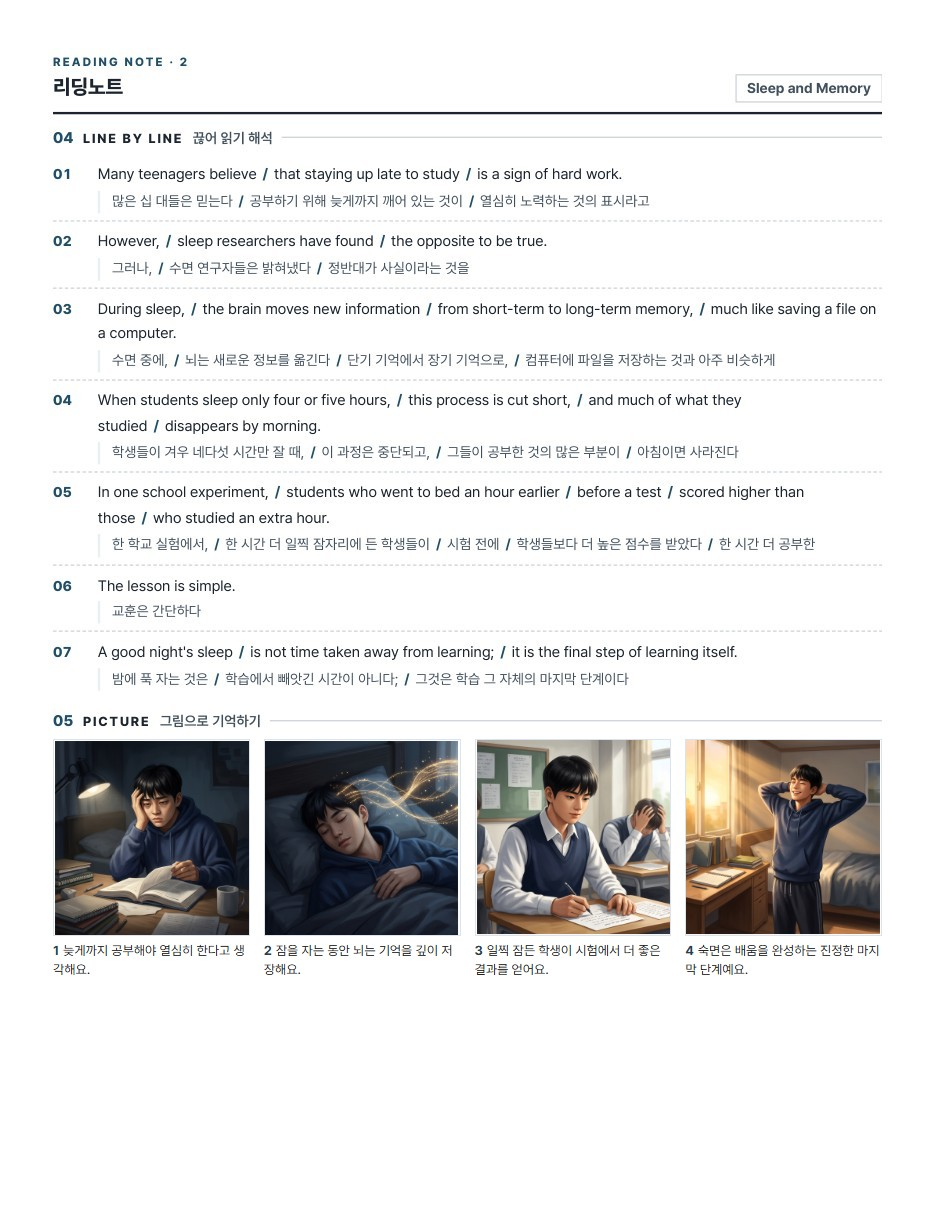
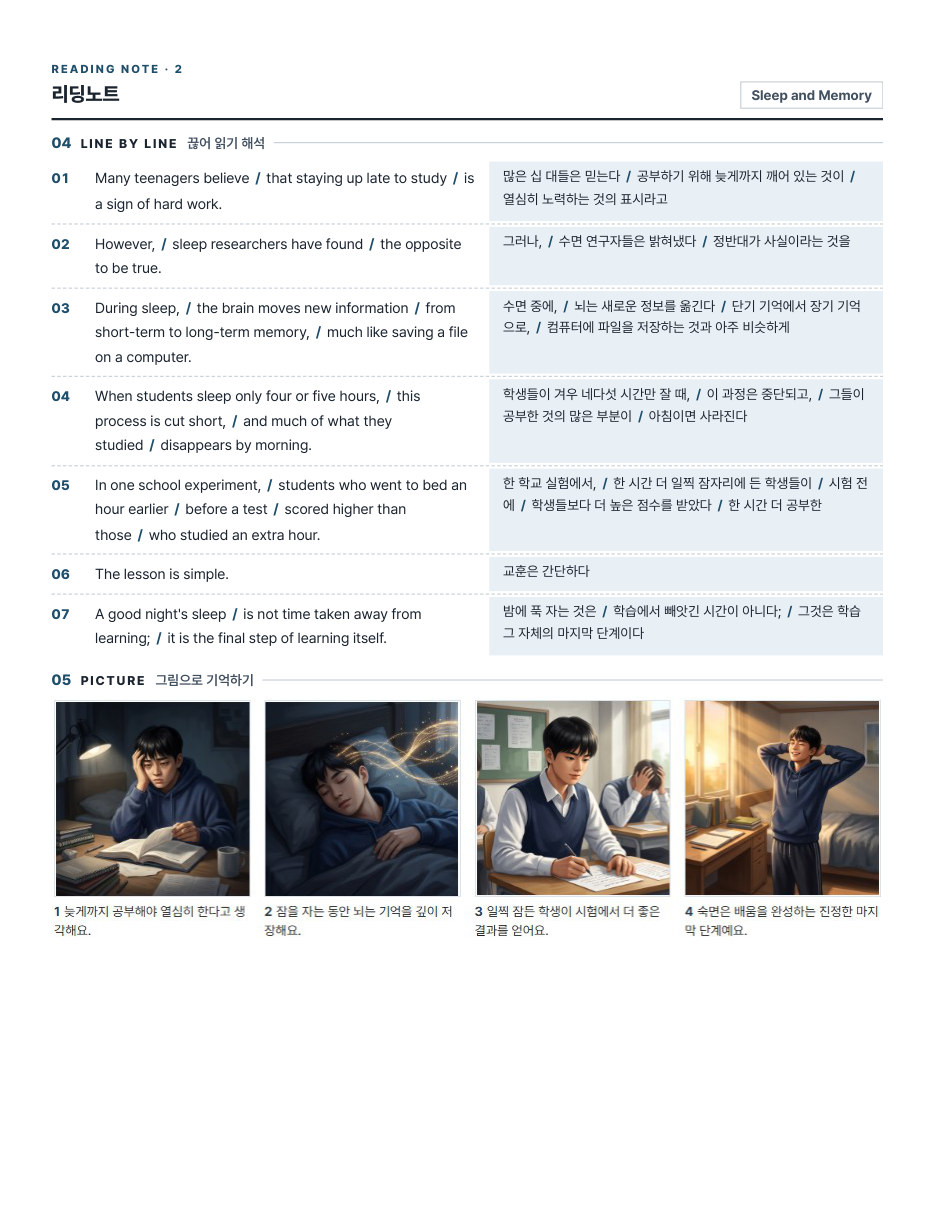
리딩노트 끊어 읽기를 왼쪽 영어·오른쪽 우리말 2단으로 바꾸고, 우리말 칸에 꾸미기에서 고른 색을 옅게 깐다(사용자). 처음엔 참고 교재와 달라 보이게 영어 줄 아래 우리말 줄로 두었는데 사용자가 좌우 배열로 정했다. 색은 꾸미기 테마 색이 만드는 --accent-soft를 그대로 쓰고 폰 화면만 위아래로 쌓는다. 인쇄 규칙과 .dc-measure를 함께 고쳤고, 만드는 법 안내·소개 쪽·예시 그림 2·3·업데이트 소식도 맞췄다. 222단어 샘플이 2쪽 안에 드는 것, 고른 색이 화면과 크롬 PDF 인쇄에 나오는 것을 확인했다

Changed region(s): [[0.031, 0.0306, 0.9615, 0.8256]]

diff --git a/public/decode.js b/public/decode.js
@@ -1,7 +1,7 @@
 /* ══════ 리딩노트 (2026-11-02 사용자) ══════
    지문 하나 → A4 두 쪽짜리 정리 자료.
      1쪽: 본문과 해석(원문 아래 전체 해석) / 핵심 정리(제목·주제·글의 목적·흐름 세 줄) / 주요 어휘
-     2쪽: 끊어 읽기 해석 — 문장마다 영어 줄 아래 우리말 줄(영어 조각 / 우리말 조각을 같은 자리에서 끊는다)
+     2쪽: 끊어 읽기 해석 — 문장마다 왼쪽 영어, 오른쪽 우리말 2단(영어 조각 / 우리말 조각을 같은 자리에서 끊는다)
    서버는 /api/decode(call_gemini_decode, Flash, 지문 1개당 PRICE_DECODE_KRW)이고 글자만 돌려준다 — 여기서 esc()로 넣는다.
    app.js 뒤에 로드되며 app.js의 전역($, esc, postGenerate, passageMgr, TAB_SAVE …)을 쓴다(grammar.js와 같은 방식).
    공용 지문칸을 그대로 쓴다. 결과 칸은 #dcResult 하나. */
@@ -40,9 +40,9 @@ function dcDropBlobs(keep) {
 const dcEd = (f, text, tag = "span", cls = "") =>
   `<${tag} class="dc-ed${cls ? " " + cls : ""}" data-f="${f}">${esc(text || "")}</${tag}>`;
 
-/* 모양은 참고한 교재(분홍 둥근 틀 · 알약 소제목 · 원문/해석 좌우 · 한 줄 해석 좌우 칸)와 일부러 다르게 짰다(2026-11-03 사용자):
+/* 모양은 참고한 교재(분홍 둥근 틀 · 알약 소제목 · 원문/해석 좌우)와 일부러 다르게 짰다(2026-11-03 사용자):
    머리 = 영문 머리글 + 제목 / 소제목 = 번호 + 영문 머리글 + 가는 줄 / 원문 아래 해석 / 핵심 정리 = 제목 띠 + 주제·목적 두 칸 + 흐름 세 칸 /
-   어휘 = 외웠는지 표시하는 네모가 붙은 세 줄 목록 / 끊어 읽기 = 문장마다 영어 줄 아래 우리말 줄 */
+   어휘 = 외웠는지 표시하는 네모가 붙은 세 줄 목록 / 끊어 읽기 = 문장마다 왼쪽 영어, 오른쪽 우리말 2단(2026-11-05 사용자), 우리말 칸 바탕은 꾸미기 색 */
 function dcHeadHtml(name, page) {
   return `<header class="dc-head"><div class="dc-head-l"><span class="dc-kicker">READING NOTE${page > 1 ? " · " + page : ""}</span>` +
     `<span class="dc-head-title">${esc(dcState.title || DECODE_NAME)}</span></div>` +
@@ -576,7 +576,7 @@ if (typeof HOWTO !== "undefined") {
         "그림은 지문마다 위의 <b>🖼 4컷 그림 넣기 / 🔄 그림 다시 그리기 / 그림 빼기</b>로 더하거나 바꿉니다.",
       "<b>🖨 인쇄 / PDF 변환</b>으로 뽑거나, <b>💾 사이트 저장</b>으로 남겨 둡니다.",
     ],
-    tip: "1쪽: 본문과 해석 · 핵심 정리(제목·주제·글의 목적·흐름 세 줄) · 주요 어휘(외웠는지 표시하는 네모) / 2쪽: 문장마다 '/'로 끊은 영어 줄 아래 우리말 줄(4컷 그림은 2쪽 아래). 지문이 길어 넘치면 글씨를 조금 줄이거나 어휘·그림 자리를 옮겨 <b>알아서 두 쪽에 맞춥니다</b>. 4컷 그림 값은 지문마다 1세트입니다. 🎨 꾸미기로 색·글자 크기·글꼴을 바꿀 수 있습니다(요금 없음). 다른 지문으로 넘어갈 때는 지문 칸의 <b>[🆕 새로 만들기]</b>를 누르세요.",
+    tip: "1쪽: 본문과 해석 · 핵심 정리(제목·주제·글의 목적·흐름 세 줄) · 주요 어휘(외웠는지 표시하는 네모) / 2쪽: 문장마다 왼쪽에 '/'로 끊은 영어, 오른쪽에 우리말(4컷 그림은 2쪽 아래). 지문이 길어 넘치면 글씨를 조금 줄이거나 어휘·그림 자리를 옮겨 <b>알아서 두 쪽에 맞춥니다</b>. 4컷 그림 값은 지문마다 1세트입니다. 🎨 꾸미기로 색·글자 크기·글꼴을 바꿀 수 있고, 고른 색은 끊어 읽기 우리말 칸의 바탕색에도 들어갑니다(요금 없음). 다른 지문으로 넘어갈 때는 지문 칸의 <b>[🆕 새로 만들기]</b>를 누르세요.",
   };
 }
 

diff --git a/public/style.css b/public/style.css
@@ -3014,14 +3014,16 @@ input.st-in{width:100%; box-sizing:border-box;}
 .dc-w-word{font-weight:700;}
 .dc-w-pos{font-size:10.5px; color:var(--accent); font-weight:700;}
 .dc-w-mean{flex-basis:100%; color:var(--ink-soft);}
-/* 끊어 읽기 — 문장마다 영어 줄 아래 우리말 줄 */
+/* 끊어 읽기 — 문장마다 왼쪽 영어, 오른쪽 우리말(2단) */
 .dc-lbl{list-style:none; margin:0; padding:0;}
-.dc-s{display:grid; grid-template-columns:30px 1fr; gap:8px; padding:9px 0; border-bottom:1px dashed var(--line);
+.dc-s{display:grid; grid-template-columns:30px 1fr; gap:8px; padding:4px 0; border-bottom:1px dashed var(--line);
   break-inside:avoid; page-break-inside:avoid;}
 .dc-s:last-child{border-bottom:none;}
-.dc-s-no{font-size:12px; font-weight:800; color:var(--accent); padding-top:2px; font-variant-numeric:tabular-nums;}
-.dc-s-en{line-height:1.7; font-size:14.5px;}
-.dc-s-ko{line-height:1.6; font-size:13px; color:var(--ink-soft); margin-top:3px; padding-left:10px; border-left:2px solid var(--accent-soft);}
+.dc-s-no{font-size:12px; font-weight:800; color:var(--accent); padding-top:7px; font-variant-numeric:tabular-nums;}
+.dc-s-body{display:grid; grid-template-columns:1fr 1fr; min-width:0;}
+.dc-s-en{line-height:1.7; font-size:14.5px; min-width:0; padding:5px 12px 5px 0;}
+/* 우리말 칸 바탕은 꾸미기의 테마 색을 옅게 푼 --accent-soft — 색을 고르면 함께 바뀐다 */
+.dc-s-ko{line-height:1.6; font-size:13px; color:var(--ink); min-width:0; padding:5px 12px; background:var(--accent-soft);}
 .dc-sl{color:var(--accent); font-weight:700; margin:0 5px;}
 .dc-editing .dc-ed{outline:1px dashed var(--accent); outline-offset:1px; border-radius:2px; cursor:text;}
 .dc-editing .dc-ed:focus{background:var(--hl); outline-style:solid;}
@@ -3030,6 +3032,10 @@ input.st-in{width:100%; box-sizing:border-box;}
   .dc-pair,.dc-flow{grid-template-columns:1fr;}
   .dc-step,.dc-step:first-child{clip-path:none; padding-left:10px;}
   .dc-words{grid-template-columns:1fr 1fr;}
+  /* 폰 화면에서는 두 칸이 너무 좁아 위아래로 쌓는다 — 인쇄는 그대로 2단 */
+  .dc-s-body{grid-template-columns:1fr;}
+  .dc-s-en{padding-right:0;}
+  .dc-s-ko{padding-left:10px;}
 }
 /* 인쇄 크기 — 1쪽(본문·해석 + 핵심 정리 + 어휘)이 A4 한 장에 들도록 화면보다 좁힌다.
    같은 규칙을 두 번 적는다: @media print(실제 인쇄)와 .dc-measure(decode.js dcFit이 화면에서 인쇄 폭으로 쪽 높이를 잴 때).
@@ -3045,9 +3051,10 @@ input.st-in{width:100%; box-sizing:border-box;}
 .dc-measure .dc-card,.dc-measure .dc-flow,.dc-measure .dc-words{font-size:8.8pt;}
 .dc-measure .dc-tc-en{font-size:10.5pt;}
 .dc-measure .dc-w{padding:3px 0;}
-.dc-measure .dc-s{padding:6px 0;}
-.dc-measure .dc-s-en{font-size:9.5pt;}
-.dc-measure .dc-s-ko{font-size:9pt;}
+.dc-measure .dc-s{padding:2px 0;}
+.dc-measure .dc-s-no{padding-top:6px;}
+.dc-measure .dc-s-en{font-size:9.5pt; padding-top:4px; padding-bottom:4px;}
+.dc-measure .dc-s-ko{font-size:9pt; padding-top:4px; padding-bottom:4px;}
 .dc-measure .dc-fitnote{display:none;}
 /* 그 지문만 글씨를 줄인다(dcFit이 정한다) — 쪽 전체를 zoom으로 줄여 폭은 그대로 쓴다 */
 .dc-measure .dc-sheet[data-fit="94"] .dc-page{zoom:.94;}
@@ -3066,9 +3073,10 @@ input.st-in{width:100%; box-sizing:border-box;}
   .dc-card,.dc-flow,.dc-words{font-size:8.8pt;}
   .dc-tc-en{font-size:10.5pt;}
   .dc-w{padding:3px 0;}
-  .dc-s{padding:6px 0;}
-  .dc-s-en{font-size:9.5pt;}
-  .dc-s-ko{font-size:9pt;}
+  .dc-s{padding:2px 0;}
+  .dc-s-no{padding-top:6px;}
+  .dc-s-en{font-size:9.5pt; padding-top:4px; padding-bottom:4px;}
+  .dc-s-ko{font-size:9pt; padding-top:4px; padding-bottom:4px;}
   .dc-fitnote{display:none !important;}
   .dc-sheet[data-fit="94"] .dc-page{zoom:.94;}
   .dc-sheet[data-fit="88"] .dc-page{zoom:.88;}

diff --git a/public/decode.html b/public/decode.html
@@ -64,7 +64,7 @@
     </figure>
     <figure class="shot">
       <img src="/howto-decode-2.jpg" width="935" height="1210" loading="lazy"
-           alt="영어 지문 리딩노트 2쪽 — 문장마다 '/'로 끊은 영어 줄 아래 같은 자리에서 끊은 우리말 줄, 아래에 지문 흐름을 그린 웹툰 4컷">
+           alt="영어 지문 리딩노트 2쪽 — 문장마다 왼쪽에 '/'로 끊은 영어, 오른쪽에 같은 자리에서 끊은 우리말, 아래에 지문 흐름을 그린 웹툰 4컷">
       <figcaption>2쪽 — 끊어 읽기 해석 · 4컷 그림(웹툰)</figcaption>
     </figure>
   </div>
@@ -84,7 +84,7 @@
     <li><b>본문과 해석</b>넣은 지문을 그대로 싣고, 바로 아래에 전체 해석을 붙입니다.</li>
     <li><b>핵심 정리</b>영어·우리말 제목, 주제, 글의 목적, 글의 흐름을 세 줄로 정리합니다. 주제·제목·요지 문제를 대비하기 좋습니다.</li>
     <li><b>주요 어휘</b>지문에서 꼭 알아야 할 단어와 표현을 <b>지문 속 뜻 그대로</b> 모으고, 외웠으면 표시하는 네모를 달았습니다.</li>
-    <li><b>끊어 읽기 해석</b>문장마다 영어 줄 아래 우리말 줄을 두고, 두 줄을 같은 자리에서 '/'로 끊습니다. 직독직해 연습에 그대로 쓸 수 있습니다.</li>
+    <li><b>끊어 읽기 해석</b>문장마다 왼쪽에 영어, 오른쪽에 우리말을 두고, 둘을 같은 자리에서 '/'로 끊습니다. 직독직해 연습에 그대로 쓸 수 있습니다.</li>
     <li><b>(선택) 4컷 그림</b>지문 흐름을 네 장면으로 그린 그림을 웹툰·일러스트 중에서 골라 넣습니다. 일러스트는 글자 없이 상황만 그리고, 웹툰은 컷마다 지문 내용을 담은 말풍선(한국어·영어 중 선택)이 들어갑니다. 컷마다 우리말 설명 한 줄이 붙어 직접 고칠 수 있습니다.</li>
   </ul>
 </section>

diff --git a/server.py b/server.py
@@ -15014,6 +15014,14 @@ CHANGELOG = [
             "[💾 먼저 저장하기]를 누르면 저장한 뒤 바로 인쇄로 이어집니다.",
         ],
     },
+    {
+        "version": 120,
+        "date": "2026-11-05",
+        "items": [
+            "📘 리딩노트의 끊어 읽기 해석이 왼쪽 영어, 오른쪽 우리말의 2단으로 바뀌었습니다. "
+            "우리말 칸에는 🎨 꾸미기에서 고른 색이 옅게 깔리고, 이미 저장해 둔 리딩노트도 불러오면 새 모양으로 보입니다.",
+        ],
+    },
 ]
 # 가장 새 번호 — 목록은 오래된 것부터 적혀 있다. 예전에는 CHANGELOG[0]을 최신으로 읽어
 # [확인했습니다]가 가장 오래된 번호(8)를 적는 바람에 소식이 7일 동안 거듭 떴다(2026-10-11).

diff --git a/CLAUDE.md b/CLAUDE.md
@@ -198,7 +198,7 @@ order=순서 배열·자동 / wbwrite=영작 연습·다르면 확인 대기 / p
 | PDF에서 지문 꺼내기 | `read_pdf_pages`(글자층+좌표 읽기), `_pdf_columns`(단 나누기 — 왼쪽 조각에 경계 안쪽에서 끝나는 줄이 3개 이상 있어야 단으로 본다. 모의고사 오른쪽 단의 문항 머리글이 본문보다 왼쪽으로 튀어나와 머리글만 한 단으로 갈리던 버그로 2026-10 고1·2·3 학력평가에서 번호가 하나씩 밀리고 지문이 빠졌다 — 23번 본문에 24번이 붙고 진짜 24번이 사라지거나 도표+인물 소개가 한 지문으로 붙었다, 2026-10-23), `split_pdf_passages`(문항형/문단형 판정), `_pdf_clean_passage`(번호·보기·정답교정 정리), `_pdf_unspace_letters`(양쪽 정렬로 글자마다 빈칸이 든 줄 'p r o c e s s .  B a s e d'을 되붙인다 — 낱말 사이가 빈칸 둘 이상일 때만), `_pdf_drop_running_heads`(쪽마다 같은 머리말을 지운다 — 책처럼 홀짝 쪽 머리말이 다르면 홀수·짝수 쪽을 따로 세되 한글이나 숫자뿐인 줄만, 2026-10-21). 여기까지는 Gemini를 부르지 않습니다 — 규칙이 실패했을 때만 `call_gemini_pdf_split`이 '경계 줄 번호'만 물어봅니다 |
 | 모의고사 문제지 → 원래 지문(2026-10-20) | 학생용 문제지는 빈칸·순서·삽입이 풀리지 않은 채라 위 규칙 길로는 그 지문이 빠진다(고1 10월 모의고사 28지문 중 13개만 나왔다). `/api/mockrestore` → `call_gemini_mock_restore`가 PDF를 **통째로**(inlineData) Pro에 보내 `MOCK_RESTORE_RANGES`(18~24·25~30·31~35·36~40·41~45)로 나눠 **동시에** 풀게 하고, 되살린 지문(`MOCK_RESTORE_SCHEMA` — no·type·text·answer·change)을 번호 순으로 돌려준다. 정답표 없이 AI가 푼다(사용자 결정) — 화면이 고른 답을 모두 보여 선생님이 맞춰 보게 한다. 글자를 서버가 뽑아 정답만 끼우는 길은 2단 시험지의 줄 순서가 섞여(29번 첫 줄이 30번 발문 사이에 낀다) 버렸다. 옮겨 적기가 대부분이라 temperature 0.15(RECITATION — `call_gemini_exam_ocr`과 같다). 값은 되살린 지문 1개당 `PRICE_MOCK_RESTORE_KRW`(30P — 2026-10-20 사용자 결정: 처음 꺼내기는 무료이고 이것은 다른 유료 기능으로 이어지는 입구라 원가(지문당 약 18원)만 넘기면 된다), 잔액은 쪽 수×4(4~28지문)로 미리 본다. 실측: 8쪽 문제지 25지문 50초, 입력 5.2천×5·출력+생각 약 2.1만 토큰(원가 약 430원). 화면은 따로 단추 없이 **[📄 PDF에서 가져오기](`runPdfImport`)가 묻는다** — 29번을 넘는 번호가 보이면 풀어야 할 문항(`MOCK_SOLVE_NOS` 29~39·41~45 + 규칙이 못 꺼낸 번호)을 모아 선택 창(`askMockFill` — [🧩 AI로 자동 채우기](지문당 값) / [원문 그대로 두기](무료))을 띄우고(2026-10-20 사용자 — 무료로 열면 원가가 커서), AI면 `mockRestoreInto`가 그 번호만 `nos`로 보내 문항 번호를 이름으로 달아 `appendJobs`한다. **모의고사면 규칙으로 바로 꺼낸 지문도 번호를 이름으로 달고, AI로 되살린 지문과 합쳐 `mockJobsInOrder`로 문항 번호 순서대로 넣는다**(2026-10-23 사용자 — 규칙 쪽만 이름이 비어 '지문 1'로 나오고 순서도 18~22 → 40 → 23…로 섞였다). [원문 그대로 두기]도 같은 순서·이름이고, 빼 둔 지문(25~28)은 넣을 때 이름만 달고 맨 뒤에 붙는다. 교과서 PDF는 여전히 이름을 비운다(`fillText`). 서버는 `parse_mock_nos`·`_mock_nos_of`로 그 번호 밖의 지문을 버려, 규칙으로 무료로 꺼낸 지문에 값을 또 받지 않는다. **정답표(선택, 2026-10-21 사용자 — AI가 푼 답은 틀릴 수 있다)**: 선택 창에 정답을 글로 붙여 넣거나(`keyText`) PDF·사진(`keyFile`, base64 4MB `MOCK_KEY_FILE_MAX` — 화면에도 같은 이름)을 올리면 AI가 풀지 않고 그 답대로 되살린다. 글은 `parse_mock_answer_key`가 번호 → ①~⑤로 읽어(짝 꼴 '31 ②'·'31. 2', 가로 표 두 줄, 평가원 '번호 정답 배점' 표 — 줄을 넘어 짝짓지 않는다) 범위마다 그 번호만 보내고, 못 읽은 글은 그대로, 파일은 두 번째 파일로 보낸다. 번호를 읽은 정답표면 AI의 답에 그 번호(①~⑤)가 들어 있는지 견줘 `keyMismatch`로, 정답표에 없어 AI가 푼 지문은 `keyed:false`로 돌려 화면이 빨간 줄로 짚는다. 값은 같다. 실측(2025 9월 고3 모평): 정답표 PDF로 31·32·36·38 모두 정답, 31번을 일부러 틀리게 준 글 정답표도 그대로 따랐다 |
 | 사진 속 '문제' → 원래 지문(2026-10-21 사용자) | 순서·삽입·무관한 문장·빈칸 문제를 캡처해 넣으면 예전엔 (A)(B)(C)가 인쇄된 차례로 붙거나 주어진 문장이 맨 앞에 붙은 채 들어갔다. `/api/ocr`(Flash)이 `problem`(종류)·`qno`를 함께 받고, 문제면 `lines` 안에 `[주어진]`·`(A)`·`( ① )`·`①`·`_____`·`[보기]` 표시를 남기게 해 서버 `problem_from_lines`가 짜임(given·parts·body·choices)과 표시를 지운 예전 글을 함께 만든다(`normalize_ocr_problem`이 되살릴 수 있는 짜임만 남긴다 — 글을 두 번 옮기게 했더니 Flash가 조각을 비우고 출력이 두 배라 잘림·재현 차단이 늘었다). 화면 `runOcr`은 꺼낸 그대로 칸에 넣은 뒤(`fillText`가 채운 칸을 돌려준다) `askProblemFill` 창을 띄운다 — ① 답 번호 직접 ② 정답표(붙여 넣기는 화면 `parseKeyText`, 안 되면·파일은 `/api/answerkey` → `read_answer_key`: 글·글자 PDF는 규칙, 사진·스캔은 Flash, 0원) ③ `/api/passagesolve`(`solve_passage_problems` — 문제마다 따로 Pro로 풀고 Flash로 한 번 더 풀어 다르면 '답이 갈림' 표시, 값 `PRICE_PASSAGE_SOLVE_KRW` 문제당 30P, 답을 받아 낸 수만큼). 고른 답대로 `assembleProblem`이 조각을 잇는다 — 글을 다시 옮겨 적지 않는다. 칸에는 먼저 `problemAsShown`(캡처본 그대로 — (A)(B)(C)·( ① )·①~⑤·빈칸·보기를 살린 글)을 넣으므로 창의 [📷 캡처본 그대로 두기]와 답을 안 정한 문제는 그 글로 남는다(2026-10-21 사용자 — 예전 '꺼낸 그대로'는 표시만 지우고 인쇄된 차례로 붙여 원래 지문도 문제도 아닌 글이었다). 실측: 모음집 문항 사진 34장 중 31장이 짜임까지 읽혔고(3장은 재현 차단 → 조각 읽기로 넘어가 짜임 없이 예전처럼 들어간다, 온도를 올려도 안 풀렸다), 공식 정답으로 되살린 31지문이 검증된 지문과 낱말까지 같았다. AI 풀이 Pro 30~31/31, Flash 30/31 |
-| 리딩노트(2026-11-02 사용자 — 시중 구문독해 교재 같은 복습 자료, 탭 이름 **리딩노트**는 사용자가 골랐다) | 지문 하나 → A4 두 쪽: 1쪽 본문과 해석(원문 아래 전체 해석) / 핵심 정리(영어·우리말 제목 띠, 주제·글의 목적 두 칸, 흐름 세 줄 화살표 칸) / 주요 어휘(12~16개, 세 줄, 외웠는지 표시하는 네모), 2쪽 끊어 읽기 해석(문장마다 영어 줄 아래 우리말 줄 — 같은 자리에서 '/'로). **모양은 참고 교재와 일부러 다르게 짰다**(2026-11-03 사용자: 베낀 티가 나면 안 된다 — 분홍 둥근 틀·알약 소제목·원문/해석 좌우·한 줄 해석 좌우 칸을 쓰지 않는다. 소제목은 `01 PASSAGE` 같은 번호 + 영문 머리글 + 가는 줄). 되돌리지 말 것. 서버 `/api/decode` → `call_gemini_decode`(Flash 고정, `DECODE_SCHEMA`/`DECODE_SYSTEM_PROMPT`, 지시문이 짧아 캐시 안 씀) → `_finish_decode`(태그를 걷어 **글자만** 돌려준다 — 화면이 `esc()`로 넣는다). 문장이 모자라거나 영어가 60% 아래면(`decode_english_incomplete`) 한 번 더 묻는다(값은 한 번). 값 `PRICE_DECODE_KRW` 지문당 150P는 **원가 실측 전 임시값**(로컬 실측 150단어 지문 1개: 입력 1.3천·출력+생각 2.9천 토큰, 약 16원, 21초 — Render 로그 `[usage] decode`로 맞출 것). 화면은 **`public/decode.js` 한 파일**(grammar.js처럼 app.js 뒤에 로드, `_asset_version` 목록에 있다), 사이드바에서 '📖 지문 분석' 묶음 바로 아래 따로 선 탭(처음엔 그 묶음의 하위 탭이었는데 사용자가 밖으로 빼라고 했다). 공용 지문칸을 그대로 쓰고 지문마다 차례로 부른다(`runGate`로 멈추기). 왼쪽 원문은 AI 조각이 아니라 **넣은 지문 그대로**다. [✏ 직접 수정]은 `.dc-ed[data-f]` 칸만 열고 `dcHarvest`가 고친 글을 data로 되돌려 저장·인쇄에 쓴다. **4컷 그림**(2026-11-03 사용자 — 그림 느낌 둘: 일러스트·웹툰을 선생님이 고른다, 서버 `DECODE_PIC_STYLES` ↔ 화면 `DC_PIC_STYLES`·`index.html` 라디오 **같은 열쇠**. 수채화·연필 스케치·흑백 만화·3D 캐릭터는 그려 보고 뺐다). **같은 4컷을 상세분석·요약분석의 '요약 이미지'에서도 고른다**(2026-11-03 사용자): 종류 칸에 `comic`(🖼 4컷 그림 + 느낌 `<prefix>ComicStyle`)을 더해 `makeSummaryImage`가 `/api/decodepic`을 부르고, `addInfographic`/`buildBriefHtml`이 `comicCutsHtml`로 네 칸을 그린다(그림 본체 `img.infographic`은 숨겨 두어 저장·불러오기 길을 그대로 쓴다). 값은 종류마다 `imgLangPrice`(4컷 `decodePic`·인포그래픽 `infographic`). 컷 설명은 저장본 `images[].caps`(서버 `clean_saved_images_meta`가 남긴다). 고르는 조합은 `enforceImgLangRule`이 정한다 — **한글요약·영어요약만 함께 고를 수 있고, 한국어＋영어와 4컷은 혼자만**(`IMG_LANG_SOLO`, 2026-11-03 사용자 — 마지막에 누른 것이 이긴다). 4컷의 그림 느낌(`<prefix>ComicStyle`)·웹툰 말풍선 말(`<prefix>ComicBubble`, 한국어 기본 — 리딩노트는 `dcPicBubble`)은 체크박스 모양이지만 하나만 켜진다. **지문마다 따로 고르기**(`<prefix>PerOn`, 2026-11-03 사용자 — 중학교 소책자에서 대화문은 웹툰, 본문은 인포그래픽·일러스트): 그림 한 장의 방식을 사양 글자(`"mix"`·`"ko"`·`"en"`·`"comic:illust"`·`"comic:webtoon:ko|en"`)로 적고, 켜면 지문마다 고른 사양 하나(또는 그림 없음)가 위의 체크를 대신한다(`imgSpecsFor` — '위에서 고른 대로'인 지문만 위 체크, 대화문은 `isDialogueText`로 처음에 웹툰을 골라 둔다). 고른 값은 지문 글을 열쇠로 화면에만 둔다(`imgPerChoice`, 저장본에는 안 담긴다). 값 셈은 `imgSpecsCost`/`imgSpecsSummary`, 그리는 곳은 `makeInfographics`·`briefMakeImages`가 지문마다 사양을 `makeSummaryImage`에 넘긴다. 사양의 앞 조각(`specLang`)이 예전 종류(lang)라 화면의 `data-lang`·저장본 `images[].lang`은 그대로다. 그림마다 사양을 `data-spec`(상세분석)·`images[].spec`(요약분석, 저장본도 — 서버 `clean_saved_images_meta`가 남긴다)에 적어 둔다. **[🖼 요약 이미지만 만들기]**(상세분석 `infoMakeBtn`·요약분석 `briefInfoMakeBtn`, 2026-11-03 사용자)는 붙은 그림을 지금 고른 것에 맞춘다 — `planImgSwap`이 같으면 그대로, 다르면 빼고 새로 그리고(`confirmImgSwap`이 값을 묻는다), 그 지문의 새 그림을 다 그렸을 때만 옛 그림을 뺀다(실패하면 옛 그림이 남는다). 사양 기록이 없는 옛 4컷은 같은지 모르므로(unsure) 다시 그릴지 따로 묻는다. 상세분석에서 4컷만 있으면 `syncInfoPair`가 새 쪽 강제를 푼다: `/api/decodepic` → `call_gemini_decode_pic`(Flash가 장면·컷 설명을 정하고 `MODEL_IMAGE`가 정사각형 한 장에 2×2 네 컷 — 한 번만 그려 한 장 값, `PRICE_DECODE_PIC_KRW` 300P, 원가 약 90원). **그림 속에 한글은 넣지 않고**(웹툰만 지문 낱말을 빌린 짧은 **영어** 말풍선을 넣는다 — 일러스트는 글자 없이 상황 묘사만. 두 느낌이 비슷해 보인다는 의견으로 2026-11-03에 `DECODE_PIC_STYLES`(일러스트=반실사 디지털 페인팅, 웹툰=굵은 먹선·과장·효과선)·`DECODE_PIC_FRAMES`(칸 모양)·`DECODE_PIC_STAGING`(장면 정하는 단계의 연출, 웹툰은 `line` 대사)으로 갈랐다) 컷 설명은 화면이 그림 아래 글자로 붙인다(`data.pic.captions`, 직접 수정 가능 — 그림이 그린 한글은 오탈자가 잘 나서). 화면이 한 장을 칸마다 206%로 놓아 잘라 쓴다(컷 사이 흰 줄을 감춘다). 만들 때 체크(`dcPicChk`)하거나 지문마다 [🖼 4컷 그림 넣기/🔄 다시 그리기/그림 빼기], 목록의 `dcPicBtn`. 그림은 **늘 가로 한 줄**이다(3쪽에 2×2로 크게 넣었더니 쪽 낭비가 심하다고 사용자가 되돌렸다 — 다시 2×2로 바꾸지 말 것). `dcFit`이 글 모양 차례마다 그림 자리를 `DC_PIC_SPOTS`(2쪽 아래 → 80% → 1쪽 빈자리 → 1쪽 80% → 65%) 차례로 해 보고, 그래도 안 되면 그때만 한 줄 그대로 3쪽(`.dc-page3`)에 둔다. 소제목 번호는 `dcRenumber`가 쪽 차례대로 다시 매긴다. 그림 본체는 저장 때 `/api/saved-image`(key `p{차례}`)로 따로 올린다(`afterSave`/`afterLoad` — 요약분석과 같은 길). 그림 결과는 `_hold_bin`의 image 그릇에 든다. 🎨 꾸미기는 다른 탭과 같은 `createSheetStyle`(글자 크기 묶음 `SHEET_FS.reading` — 영어·우리말 해석·정리·어휘, CSS `.fs-e`/`.fs-k`/`.fs-v`)이고 저장본 `sheetStyle`에 담긴다. 저장 tab `"decode"`. 인쇄 CSS는 style.css 끝 '리딩노트'. **인쇄 2쪽 맞추기**(`dcFit`, 2026-11-03 — 단어 수가 아니라 해석·목적 글 길이에 따라 1쪽이 넘쳐 152단어 지문도 어휘만 다음 쪽으로 밀렸다): 화면에서 `.dc-measure`(인쇄 규칙과 **같은 값을 한 벌 더** 적어 둔 것 — 한쪽만 고치면 잰 높이와 실제 인쇄가 어긋난다)로 쪽마다 높이를 재서 `PAGE_H_MM`−3mm에 들 때까지 ① 그대로 ② 그 지문만 글씨 94%(`data-fit`, zoom) ③ 주요 어휘를 2쪽 위로 ④ ③+94% ⑤ ③+88%를 차례로 해 보고, 바꾼 것은 지문 위 `.dc-fitnote`(화면 전용)로 알린다. 꾸미기·직접 수정·탭 열기 때 다시 잰다. 지문 6개(132~224단어)가 모두 2쪽인 것을 헤드리스 크롬 PDF로 확인했다(학원 마크 띠가 붙은 실제 인쇄는 아직 못 봤다). 색은 사이트 색(`--accent`) — 참고 교재의 분홍 둥근 틀을 따르지 않는다(문법 마법사처럼 남의 자료 티가 나지 않게). 결과물 예시는 `howto-decode-1·2.jpg`(다른 탭과 같은 Desirable Difficulty 지문으로 실제로 만든 리딩노트 + 4컷 웹툰을 헤드리스 크롬으로 인쇄한 쪽 — 모양을 바꾸면 다시 찍을 것, decode.js의 `HOWTO_SAMPLE.decode`). 로그인 뒤 기능 카드(`START_TOUR`)·로그인 전 첫 화면 카드·검색용 소개 쪽 `decode.html`(2026-11-03)이 있다 |
+| 리딩노트(2026-11-02 사용자 — 시중 구문독해 교재 같은 복습 자료, 탭 이름 **리딩노트**는 사용자가 골랐다) | 지문 하나 → A4 두 쪽: 1쪽 본문과 해석(원문 아래 전체 해석) / 핵심 정리(영어·우리말 제목 띠, 주제·글의 목적 두 칸, 흐름 세 줄 화살표 칸) / 주요 어휘(12~16개, 세 줄, 외웠는지 표시하는 네모), 2쪽 끊어 읽기 해석(문장마다 왼쪽 영어·오른쪽 우리말 2단, 같은 자리에서 '/'로 끊고 우리말 칸 바탕은 꾸미기 테마 색을 옅게 푼 `--accent-soft`, 폰 화면만 위아래로 쌓는다 — 2026-11-05 사용자가 좌우로 바꿨다. 처음엔 영어 줄 아래 우리말 줄이었다). **그 밖의 모양은 참고 교재와 일부러 다르게 짰다**(2026-11-03 사용자: 베낀 티가 나면 안 된다 — 분홍 둥근 틀·알약 소제목·원문/해석 좌우를 쓰지 않는다. 소제목은 `01 PASSAGE` 같은 번호 + 영문 머리글 + 가는 줄). 되돌리지 말 것. 서버 `/api/decode` → `call_gemini_decode`(Flash 고정, `DECODE_SCHEMA`/`DECODE_SYSTEM_PROMPT`, 지시문이 짧아 캐시 안 씀) → `_finish_decode`(태그를 걷어 **글자만** 돌려준다 — 화면이 `esc()`로 넣는다). 문장이 모자라거나 영어가 60% 아래면(`decode_english_incomplete`) 한 번 더 묻는다(값은 한 번). 값 `PRICE_DECODE_KRW` 지문당 150P는 **원가 실측 전 임시값**(로컬 실측 150단어 지문 1개: 입력 1.3천·출력+생각 2.9천 토큰, 약 16원, 21초 — Render 로그 `[usage] decode`로 맞출 것). 화면은 **`public/decode.js` 한 파일**(grammar.js처럼 app.js 뒤에 로드, `_asset_version` 목록에 있다), 사이드바에서 '📖 지문 분석' 묶음 바로 아래 따로 선 탭(처음엔 그 묶음의 하위 탭이었는데 사용자가 밖으로 빼라고 했다). 공용 지문칸을 그대로 쓰고 지문마다 차례로 부른다(`runGate`로 멈추기). 왼쪽 원문은 AI 조각이 아니라 **넣은 지문 그대로**다. [✏ 직접 수정]은 `.dc-ed[data-f]` 칸만 열고 `dcHarvest`가 고친 글을 data로 되돌려 저장·인쇄에 쓴다. **4컷 그림**(2026-11-03 사용자 — 그림 느낌 둘: 일러스트·웹툰을 선생님이 고른다, 서버 `DECODE_PIC_STYLES` ↔ 화면 `DC_PIC_STYLES`·`index.html` 라디오 **같은 열쇠**. 수채화·연필 스케치·흑백 만화·3D 캐릭터는 그려 보고 뺐다). **같은 4컷을 상세분석·요약분석의 '요약 이미지'에서도 고른다**(2026-11-03 사용자): 종류 칸에 `comic`(🖼 4컷 그림 + 느낌 `<prefix>ComicStyle`)을 더해 `makeSummaryImage`가 `/api/decodepic`을 부르고, `addInfographic`/`buildBriefHtml`이 `comicCutsHtml`로 네 칸을 그린다(그림 본체 `img.infographic`은 숨겨 두어 저장·불러오기 길을 그대로 쓴다). 값은 종류마다 `imgLangPrice`(4컷 `decodePic`·인포그래픽 `infographic`). 컷 설명은 저장본 `images[].caps`(서버 `clean_saved_images_meta`가 남긴다). 고르는 조합은 `enforceImgLangRule`이 정한다 — **한글요약·영어요약만 함께 고를 수 있고, 한국어＋영어와 4컷은 혼자만**(`IMG_LANG_SOLO`, 2026-11-03 사용자 — 마지막에 누른 것이 이긴다). 4컷의 그림 느낌(`<prefix>ComicStyle`)·웹툰 말풍선 말(`<prefix>ComicBubble`, 한국어 기본 — 리딩노트는 `dcPicBubble`)은 체크박스 모양이지만 하나만 켜진다. **지문마다 따로 고르기**(`<prefix>PerOn`, 2026-11-03 사용자 — 중학교 소책자에서 대화문은 웹툰, 본문은 인포그래픽·일러스트): 그림 한 장의 방식을 사양 글자(`"mix"`·`"ko"`·`"en"`·`"comic:illust"`·`"comic:webtoon:ko|en"`)로 적고, 켜면 지문마다 고른 사양 하나(또는 그림 없음)가 위의 체크를 대신한다(`imgSpecsFor` — '위에서 고른 대로'인 지문만 위 체크, 대화문은 `isDialogueText`로 처음에 웹툰을 골라 둔다). 고른 값은 지문 글을 열쇠로 화면에만 둔다(`imgPerChoice`, 저장본에는 안 담긴다). 값 셈은 `imgSpecsCost`/`imgSpecsSummary`, 그리는 곳은 `makeInfographics`·`briefMakeImages`가 지문마다 사양을 `makeSummaryImage`에 넘긴다. 사양의 앞 조각(`specLang`)이 예전 종류(lang)라 화면의 `data-lang`·저장본 `images[].lang`은 그대로다. 그림마다 사양을 `data-spec`(상세분석)·`images[].spec`(요약분석, 저장본도 — 서버 `clean_saved_images_meta`가 남긴다)에 적어 둔다. **[🖼 요약 이미지만 만들기]**(상세분석 `infoMakeBtn`·요약분석 `briefInfoMakeBtn`, 2026-11-03 사용자)는 붙은 그림을 지금 고른 것에 맞춘다 — `planImgSwap`이 같으면 그대로, 다르면 빼고 새로 그리고(`confirmImgSwap`이 값을 묻는다), 그 지문의 새 그림을 다 그렸을 때만 옛 그림을 뺀다(실패하면 옛 그림이 남는다). 사양 기록이 없는 옛 4컷은 같은지 모르므로(unsure) 다시 그릴지 따로 묻는다. 상세분석에서 4컷만 있으면 `syncInfoPair`가 새 쪽 강제를 푼다: `/api/decodepic` → `call_gemini_decode_pic`(Flash가 장면·컷 설명을 정하고 `MODEL_IMAGE`가 정사각형 한 장에 2×2 네 컷 — 한 번만 그려 한 장 값, `PRICE_DECODE_PIC_KRW` 300P, 원가 약 90원). **그림 속에 한글은 넣지 않고**(웹툰만 지문 낱말을 빌린 짧은 **영어** 말풍선을 넣는다 — 일러스트는 글자 없이 상황 묘사만. 두 느낌이 비슷해 보인다는 의견으로 2026-11-03에 `DECODE_PIC_STYLES`(일러스트=반실사 디지털 페인팅, 웹툰=굵은 먹선·과장·효과선)·`DECODE_PIC_FRAMES`(칸 모양)·`DECODE_PIC_STAGING`(장면 정하는 단계의 연출, 웹툰은 `line` 대사)으로 갈랐다) 컷 설명은 화면이 그림 아래 글자로 붙인다(`data.pic.captions`, 직접 수정 가능 — 그림이 그린 한글은 오탈자가 잘 나서). 화면이 한 장을 칸마다 206%로 놓아 잘라 쓴다(컷 사이 흰 줄을 감춘다). 만들 때 체크(`dcPicChk`)하거나 지문마다 [🖼 4컷 그림 넣기/🔄 다시 그리기/그림 빼기], 목록의 `dcPicBtn`. 그림은 **늘 가로 한 줄**이다(3쪽에 2×2로 크게 넣었더니 쪽 낭비가 심하다고 사용자가 되돌렸다 — 다시 2×2로 바꾸지 말 것). `dcFit`이 글 모양 차례마다 그림 자리를 `DC_PIC_SPOTS`(2쪽 아래 → 80% → 1쪽 빈자리 → 1쪽 80% → 65%) 차례로 해 보고, 그래도 안 되면 그때만 한 줄 그대로 3쪽(`.dc-page3`)에 둔다. 소제목 번호는 `dcRenumber`가 쪽 차례대로 다시 매긴다. 그림 본체는 저장 때 `/api/saved-image`(key `p{차례}`)로 따로 올린다(`afterSave`/`afterLoad` — 요약분석과 같은 길). 그림 결과는 `_hold_bin`의 image 그릇에 든다. 🎨 꾸미기는 다른 탭과 같은 `createSheetStyle`(글자 크기 묶음 `SHEET_FS.reading` — 영어·우리말 해석·정리·어휘, CSS `.fs-e`/`.fs-k`/`.fs-v`)이고 저장본 `sheetStyle`에 담긴다. 저장 tab `"decode"`. 인쇄 CSS는 style.css 끝 '리딩노트'. **인쇄 2쪽 맞추기**(`dcFit`, 2026-11-03 — 단어 수가 아니라 해석·목적 글 길이에 따라 1쪽이 넘쳐 152단어 지문도 어휘만 다음 쪽으로 밀렸다): 화면에서 `.dc-measure`(인쇄 규칙과 **같은 값을 한 벌 더** 적어 둔 것 — 한쪽만 고치면 잰 높이와 실제 인쇄가 어긋난다)로 쪽마다 높이를 재서 `PAGE_H_MM`−3mm에 들 때까지 ① 그대로 ② 그 지문만 글씨 94%(`data-fit`, zoom) ③ 주요 어휘를 2쪽 위로 ④ ③+94% ⑤ ③+88%를 차례로 해 보고, 바꾼 것은 지문 위 `.dc-fitnote`(화면 전용)로 알린다. 꾸미기·직접 수정·탭 열기 때 다시 잰다. 지문 6개(132~224단어)가 모두 2쪽인 것을 헤드리스 크롬 PDF로 확인했다(학원 마크 띠가 붙은 실제 인쇄는 아직 못 봤다). 색은 사이트 색(`--accent`) — 참고 교재의 분홍 둥근 틀을 따르지 않는다(문법 마법사처럼 남의 자료 티가 나지 않게). 결과물 예시는 `howto-decode-1·2·3.jpg`(실제로 만든 리딩노트 + 4컷 그림을 헤드리스 크롬으로 인쇄한 쪽 — 모양을 바꾸면 다시 찍을 것, decode.js의 `HOWTO_SAMPLE.decode`. 2·3은 2026-11-05에 끊어 읽기만 2단으로 다시 찍고 그림은 그대로 썼다). 로그인 뒤 기능 카드(`START_TOUR`)·로그인 전 첫 화면 카드·검색용 소개 쪽 `decode.html`(2026-11-03)이 있다 |
 | 내용 한장정리(첫 이름은 '내용 풀이'였고 2026-11-04 사용자가 바꿨다 — 코드의 explain·xp 이름은 그대로, 2026-11-03 사용자 — 해석은 했는데 분야를 몰라 글이 이해되지 않는 학생용, **리딩노트와 별개의 새 탭**) | 지문 하나 → A4 한 쪽, **우리말로만**(영어 원문·해석·문법 없음 — 대목을 원문에서 찾을 수 있게 첫 2~4낱말 `cue`만): 제목·한 줄 요약 / **알아 두면 쉬워지는 배경지식**(분야 `field`·읽기 전 상식 `primer`·개념 카드 `concepts` 0~3 — 상세분석 배경지식과 같은 en·ko·short·explain·link, 스키마는 `_BACKGROUND_SCHEMA`의 concepts를 빌려 쓴다, 2026-11-03 사용자. 첫 판 저장본은 `terms`({en,ko,explain})라 화면이 그대로 읽는다) / 차근차근 풀어 읽기(`parts` 3~4대목 — 문장 범위·하는 일·이야기하듯 3~4문장 풀이) / 쉽게 말하면(`analogy`)·글쓴이가 하고 싶은 말(`message`) / 스스로 확인(`questions` 3, 답 포함). 말투는 '~해요'. 서버 `/api/explain` → `call_gemini_explain`(Flash 고정, `EXPLAIN_SCHEMA`/`EXPLAIN_SYSTEM_PROMPT`, 캐시 안 씀) → `_finish_explain`(글자만, `_decode_plain` 재사용). 대목 풀이가 비면 실패(값 안 받음). 값 `PRICE_EXPLAIN_KRW` 지문당 100P는 **원가 실측 전 임시값** — Render 로그 `[usage] explain`으로 맞출 것. 상세분석의 `outline.background`와 겹쳐 보이지만 그쪽은 분석본 속 짧은 칸이다. 화면 **`public/explain.js` 한 파일**(decode.js처럼 app.js 뒤에 로드, `_asset_version` 목록에 있다, 요소 id 접두어 `xp`), 사이드바 리딩노트 바로 아래. 인쇄 한 쪽 맞추기 `xpFit`(그대로 → 94 → 88 → 82% — `.xp-measure`는 인쇄 규칙과 **같은 값을 한 벌 더** 적은 것이라 함께 고칠 것). 꾸미기는 `SHEET_FS.explain`(빈 목록 — 테마 색·글꼴만, doc의 인쇄 크기 zoom이 없다). 저장 tab `"explain"`. **요약 이미지**(2026-11-03 사용자): 지문마다 한 장, 고르는 칸은 **요약분석과 똑같은 모양**(`xpLangBox` — 한국어＋영어·한글요약·영어요약·4컷 그림 체크 + 일러스트/웹툰·말풍선 + 지문마다 따로 고르기, app.js의 `pickedImgLangs`·`imgSpecsFor`·`setupImgPerList`를 prefix `xp`로 쓴다. 2026-11-03 사용자: 탭마다 이미지 칸이 다르면 안 된다 — 처음엔 드롭다운이었다). 그림 자리가 둘째 쪽 한 장뿐이라 체크는 하나만 켜진다(`xpSpecFor`)를 app.js `makeSummaryImage("xp", spec, …)`로 그대로 그린다(값도 `imgLangPrice` — 인포그래픽 `PRICING.infographic`·4컷 `decodePic`). 서버는 바뀐 것이 없다. 사양·4컷 컷 설명은 `data.img`, 본체는 `/api/saved-image`(key `p{차례}`). **지문 하나 = 두 쪽 안**(2026-11-03 사용자): 첫 쪽 글, 둘째 쪽(`.xp-page2`) 요약 이미지(4컷은 2×2 `.xp-cuts2`). 글이 첫 쪽에 안 들면 `xpFit`이 뒤쪽 칸(`data-sec` — bg·parts·sum·qs 차례)부터 둘째 쪽 그림 위로 넘기고(`xpPlace`, 풀어 읽기째 넘기는 것은 그 뒤 칸만으로 글씨 82%·그림 50%까지 다 해 본 뒤) 그림을 100→80→65→50%로 줄인다. **[📄 쪽 구성]**(`xpPaging`)에서 칸 위 단추(⤵ 여기부터 2쪽으로 / ⤴ 1쪽으로 올리기 — CSS가 자리에 맞는 것만 보인다)로 나눔을 정하면 `data.split`(둘째 쪽 첫 칸 이름, 모두 첫 쪽이면 "none")에 저장되고 [↺ 쪽 나눔 자동으로]로 푼다. 쪽 높이 여유는 8mm(3mm일 때 실제 인쇄에서 칸이 밀렸다). 서버가 쪽에 찍히는 글자 수(`explain_text_length`)가 `EXPLAIN_CHAR_BUDGET`(1,800)을 넘으면 `EXPLAIN_SHORTEN_TO`(1,500)로 줄여 한 번 더 쓰게 하고(값은 한 번), 화면은 위 차례를 다 해도 넘치면 `XP_OMIT_STEPS` 차례로 덜 중요한 칸에 `.xp-omit`을 단다(인쇄·측정에서 숨고 화면엔 흐리게 '인쇄 제외', 저장본에는 그대로). 풀어 읽기·글쓴이의 말은 빼지 않는다. 직접 수정 중에도 다시 잰다. 크롬 PDF로 잰 값과 실제 인쇄가 같은 것을 확인했다. 결과물 예시 그림·소개 쪽·첫 화면 카드는 아직 없다 |
 | 상세분석 저장 → 단어장도 함께(2026-11-02 사용자) | 상세분석을 [💾 사이트 저장]하면 `TAB_SAVE.analyze.afterSave`가 `saveAnalyzeVocab`을 불러 분석의 핵심 어휘(`analyzeVocabSets` — 지문마다 `data.vocab`)를 **'저장 제목_단어'** 단어장 저장본(tab `vocab`)으로도 저장한다. 단어장 저장본 중 같은 이름이 있으면 덮어쓴다(중복 방지 — 2026-08-10 자동 저장을 기각한 까닭). 자동 저장이 아니라 사용자가 저장할 때만이고, 단어가 없는 분석은 단어장을 만들지 않는다. 단어장 저장이 실패해도 분석본은 저장된 채 알리기만 한다. `doSaveDialog`가 `afterSave`에 저장 제목을 넷째 인자로 넘긴다. 저장창 문구는 `saveLead`. 요약분석은 핵심 어휘 표가 없어 해당 없다 |
 | 단어장 — 지문에서 단어 뽑기(2026-11-02 사용자) | `/api/vocabextract` → `parse_vocab_extract` → `call_gemini_vocab_extract`(Flash 고정, 지문 하나당 한 번, 값 `PRICE_VOCAB_EXTRACT_KRW` 기본 30P는 **원가 실측 전 임시값** — Render 로그 `[usage] vocabextract`로 맞출 것). **지문 분석의 `vocab`(핵심 어휘 & 표현)과 같은 취지**로 AI가 그 지문에서 꼭 알아야 할 단어를 고르되, **`curriculum_vocab_2022.csv` 목록(중학교·공통 / 고등 선택)에 있는 단어 위주**다 — `_vocab_extract_candidates`가 지문 낱말을 `_curriculum_rank`(접사를 안 떼는 엄격한 짐작)로 목록과 맞춰 후보로 보여 주고, AI는 후보 위주로 고르며 목록 밖 단어·숙어는 개수의 `VOCAB_EXTRACT_OFF_DIV`(1/3, 올림 — 1/4로는 광합성 지문의 chlorophyll·stomata가 빠졌다)까지만 허용한다(서버가 다시 센다). 초등 단어·고유명사(문장 가운데 대문자)·이미 뽑은 낱말은 뺀다. **학교급 선택은 없다**(사용자 결정 — 중학교/고등학교로 나누던 것을 뺐다). 개수(기본 20, 최대 60)·숙어 포함은 요청으로 받는다 — 품사는 화면에서 고르지 않는다(사용자, `pos`를 안 실으면 서버가 명사·동사·형용사·부사를 모두 허용). 단어장 탭에서는 공용 지문칸의 목표 어법 칸(`targetGrammarRow`)을 감춘다(사용자). 지문은 **다른 탭과 같은 공용 지문칸(`passageMgr`)**에서 읽는다 — 단어장 탭은 평소 지문칸을 숨기지만 뽑기 칸을 열면(`vocabWantsPassage` ↔ `syncTabChrome`, 문법 마법사의 `grammarWantsPassage`와 같은 방식) 뜬다(사용자 — 처음엔 뽑기 칸 안에 따로 글상자를 두었다). 지문이 여럿이면 화면(`vocabExtractRunBtn`)이 한 번에 하나씩 부르고 앞에서 뽑은 낱말을 `exclude`로 넘긴다. 결과는 지문이 하나면 편집 표(`vocabEditorAdd`, src `extract`)로, **여럿이면 지문별 단어장**(지문마다 세트 하나, 이름 = 지문 이름)으로 들어간다. **지문별 저장**(2026-11-02 사용자): 쓰는 단어장이 둘 이상이고 모두 지문에서 온 것(src `extract`·`analyze`)이면 단어장 탭 [💾 사이트 저장]이 `saveVocabPerPassage`로 지문마다 **'저장 제목_지문 이름'** 저장본을 하나씩 만든다(`vocabPerPassageSets` — 제목을 앞에 붙여야 '지문 1'·'18번' 같은 흔한 이름끼리 덮어쓰지 않는다, 같은 이름은 덮어쓴다) **모두 제목 이름의 단어장(폴더, `/api/saved/folder`) 하나에 넣는다** — 저장함에서 '📁 3월 모의고사 (N개)'를 펼치면 지문별 목록이 나오는 모양(사용자가 단어장 책 폴더 화면을 보여 주며 정했다). 저장창에서 다른 단어장을 고르면 그리로. 제목 기본값은 지문 이름의 큰 이름(`vocabBigName` — '3월 모의고사 · 18번'의 앞부분, 모두 같을 때만)이고 저장본 이름에서는 큰 이름을 뗀다(`vocabShortName`). 이 모드에서는 [덮어쓰기] 단추를 숨기고 `LOADED_SAVED.vocab`을 끊는다). 직접 입력·사진·PDF 단어장이 섞이면 예전처럼 하나로 저장한다. 뽑는 품질은 실제 지문으로 아직 못 쟀다 |
